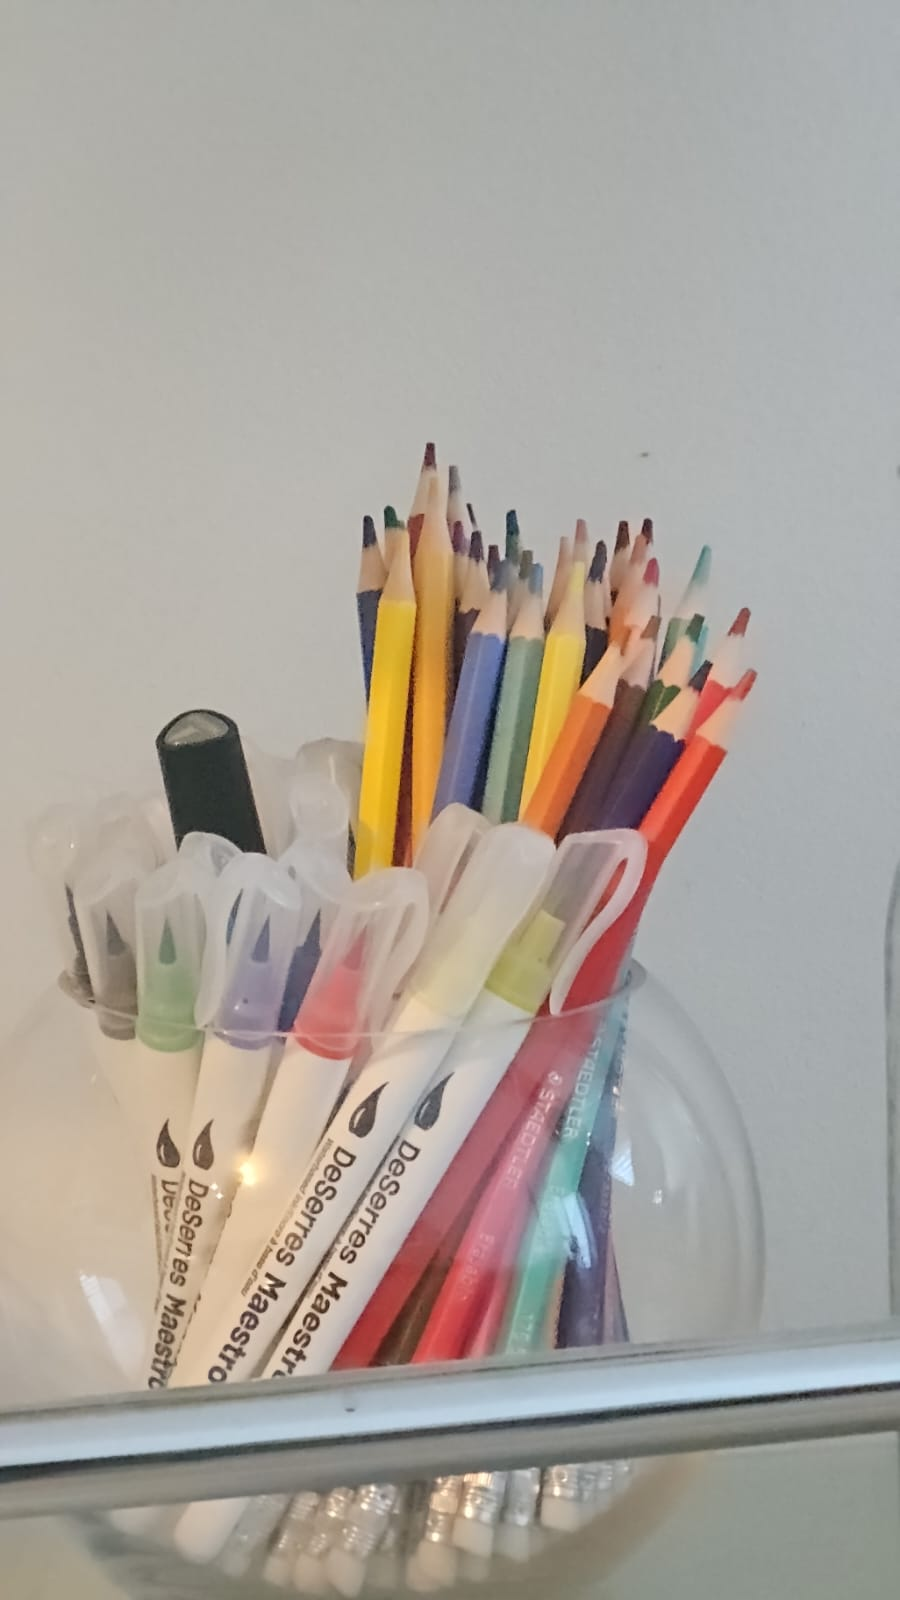
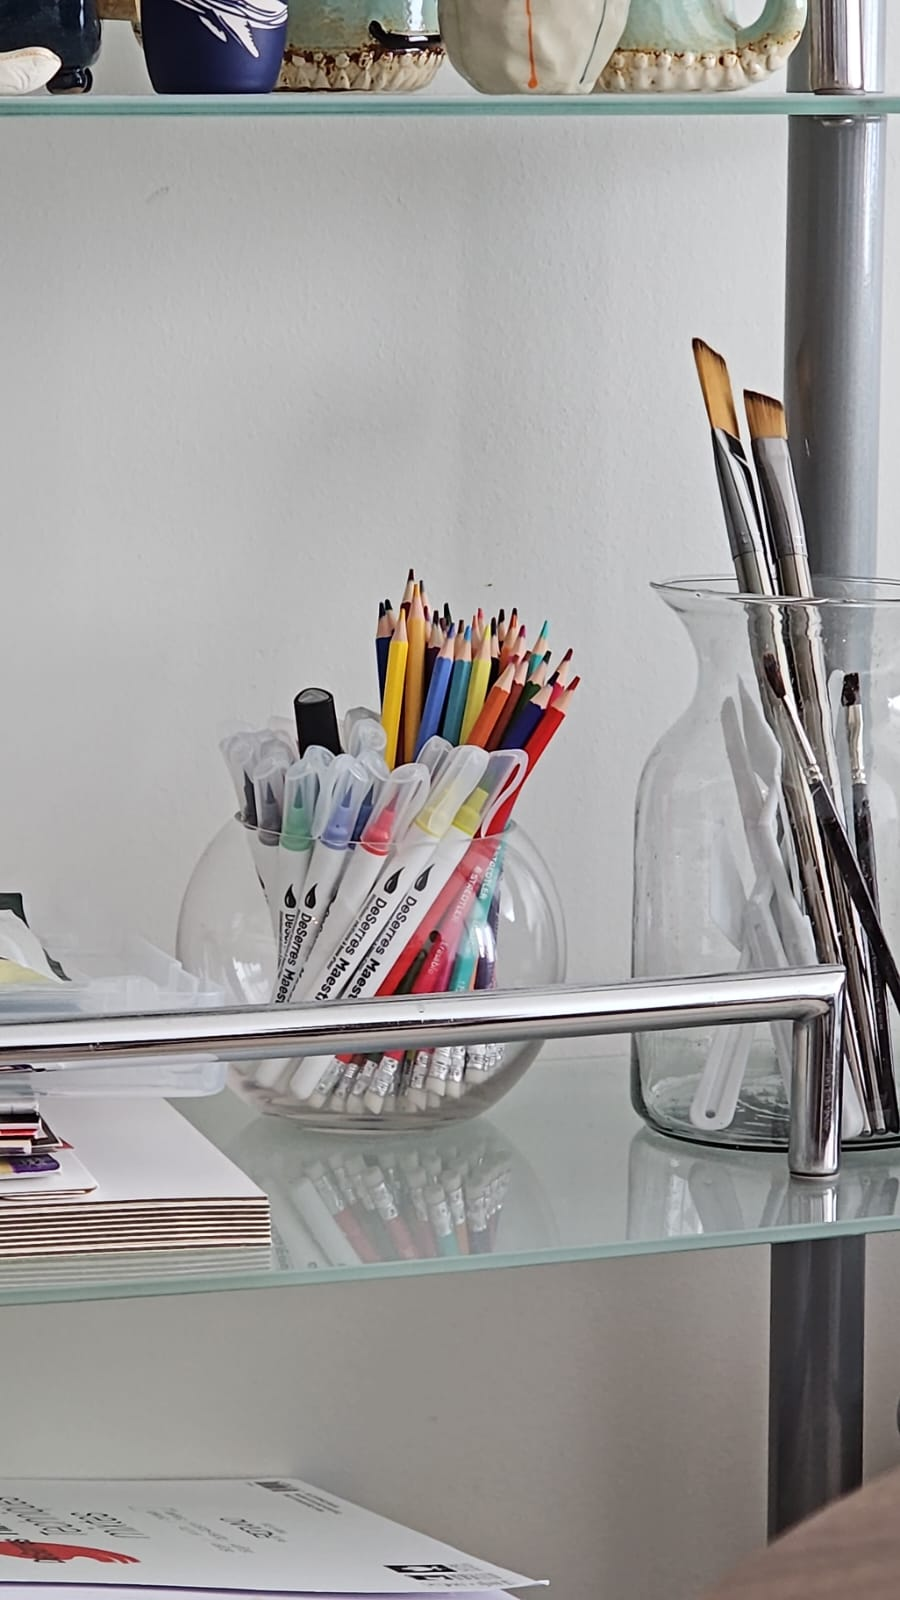
-Change in test image. -Correction in the blendAlphaRange calculation

diff --git a/zoomer.py b/zoomer.py
@@ -45,8 +45,6 @@ class affineTransformerClass:
         # Transform the corners
         transformedImgCornersPolygon = cv.transform(np.array([originalImgCornersPolygon]), self.transformMatrix)[0]
         videoCornersPolygon = np.array([[0, 0], [outputSize[0], 0], [outputSize[0], outputSize[1]], [0, outputSize[1]]], dtype=np.float32)
-        print(f'DEBUG - transformedImgCornersPolygon: \n{transformedImgCornersPolygon}')
-        print(f'DEBUG - videoCornersPolygon: \n{videoCornersPolygon}')
         # Check if videoCornersPolygon is inside transformedImgCornersPolygon
         return polygonIsInsidePolygon(videoCornersPolygon, transformedImgCornersPolygon)
     #---------------------------------------------------------------------
@@ -126,13 +124,13 @@ def interpolatePointsGP(points0:np.ndarray, points1:np.ndarray, alpha:float)->np
     interpolatedLogSize = alpha * logSizeRatio
     linearSizeRatio = np.exp(interpolatedLogSize)
     pgAlpha = (linearSizeRatio - 1) / (sizeRatio - 1) if sizeRatio != 1 else alpha
-    print(f'DEBUG - sizeRatio: {sizeRatio}, alpha: {alpha}, linearSizeRatio: {linearSizeRatio}, pgAlpha: {pgAlpha}')
+    #print(f'DEBUG - sizeRatio: {sizeRatio}, alpha: {alpha}, linearSizeRatio: {linearSizeRatio}, pgAlpha: {pgAlpha}')
     return (1 - pgAlpha) * points0 + pgAlpha * points1
 #-------------------------------------------------------------------------
 def createIntermediateFrame(videoSize:np.ndarray, 
                             img0:np.ndarray, points0:np.ndarray, frame0:np.ndarray,
                                              points1:np.ndarray, frame1:np.ndarray,
-                            sizeAlpha:float)->np.ndarray:
+                            sizeAlpha:float, checkFill:bool=False)->np.ndarray:
     #Convert the points0 to frame0 coordinates
     videoTransformedPoints0 = convertPointsToVideoDimensions(points0, frame0, videoSize)
     #Convert the points1 to frame1 coordinates
@@ -141,20 +139,38 @@ def createIntermediateFrame(videoSize:np.ndarray,
     interpolatedPoints = interpolatePointsGP(videoTransformedPoints0, videoTransformedPoints1, sizeAlpha)
     #Create an affine transformer for the first image
     imgTransformer = affineTransformerClass(points0, interpolatedPoints)
+    if checkFill:
+        return imgTransformer.transformedImageFillsOutputSize(img0, videoSize)
     #Transform the first image to the intermediate frame
-    print(f"DEBUG image will fill output size (sizeAlpha = {sizeAlpha}): {imgTransformer.transformedImageFillsOutputSize(img0, videoSize)}")
     intermediateFrame = imgTransformer.transformImage(img0, videoSize)
     return intermediateFrame
+#-------------------------------------------------------------------------
+def getBlendAlphaRange(videoSize:np.ndarray, 
+                       img0:np.ndarray, points0:np.ndarray, frame0:np.ndarray,
+                       img1:np.ndarray, points1:np.ndarray, frame1:np.ndarray)->tuple:
+    #Scan the sizeAlpha to find the range where both images can fill the output frame
+    minSizeAlphaForBlending = 1.0
+    maxSizeAlphaForBlending = 0.0
+    for testSizeAlpha in np.linspace(0, 1, num=int(1/BLEND_RANGE_DETECTION_RESOLUTION)+1):
+        intermediateFrame0Fills = createIntermediateFrame(videoSize, img0, points0, frame0, points1, frame1, testSizeAlpha, checkFill=True)
+        intermediateFrame1Fills = createIntermediateFrame(videoSize, img1, points1, frame1, points0, frame0, 1-testSizeAlpha, checkFill=True)
+        print(f"DEBUG - testSizeAlpha = {testSizeAlpha}, intermediateFrame0Fills = {intermediateFrame0Fills}, intermediateFrame1Fills = {intermediateFrame1Fills}")
+        if intermediateFrame0Fills and intermediateFrame1Fills:
+            if testSizeAlpha < minSizeAlphaForBlending:
+                minSizeAlphaForBlending = testSizeAlpha
+            if testSizeAlpha > maxSizeAlphaForBlending:
+                maxSizeAlphaForBlending = testSizeAlpha
+    return minSizeAlphaForBlending, maxSizeAlphaForBlending
 #-------------------------------------------------------------------------
 def createBlendedFrame(videoSize:np.ndarray, 
                        img0:np.ndarray, points0:np.ndarray, frame0:np.ndarray,
                        img1:np.ndarray, points1:np.ndarray, frame1:np.ndarray,
-                       sizeAlpha:float)->np.ndarray:
+                       sizeAlpha:float, blendAlpha:float)->np.ndarray:
     #Create the intermediate frames for both images
     intermediateFrame0 = createIntermediateFrame(videoSize, img0, points0, frame0, points1, frame1, sizeAlpha)
     intermediateFrame1 = createIntermediateFrame(videoSize, img1, points1, frame1, points0, frame0, 1-sizeAlpha)
     #Blend the two intermediate frames
-    blendedFrame = cv.addWeighted(intermediateFrame0, 1-sizeAlpha, intermediateFrame1, sizeAlpha, 0)
+    blendedFrame = cv.addWeighted(intermediateFrame0, 1-blendAlpha, intermediateFrame1, blendAlpha, 0)
     return blendedFrame
 #-------------------------------------------------------------------------
 
@@ -171,13 +187,18 @@ if __name__ == "__main__":
     img1 = cv.imread(cfgDict['images_data'][1]['filename'])
     frame1 = np.array(cfgDict['images_data'][1]['frame'], dtype=np.float32)
     prevPoints1 = np.array(cfgDict['images_data'][1]['prev_points'], dtype=np.float32)
-    
+
+    minBlendAlpha, maxBlendAlpha = getBlendAlphaRange(videoDims, img0, nextPoints0, frame0, img1, prevPoints1, frame1)
+    print(f"DEBUG - blendAlphaRange = {minBlendAlpha} to {maxBlendAlpha}")
     for sizeAlpha in np.linspace(0, 1, num=100):
-        blendedFrame = createBlendedFrame(videoDims, img0, nextPoints0, frame0, img1, prevPoints1, frame1, sizeAlpha)
-        blendedFrame = createBlendedFrame(videoDims, img0, nextPoints0, frame0, img1, prevPoints1, frame1, sizeAlpha)
+        blendAlpha = (sizeAlpha - minBlendAlpha) / (maxBlendAlpha - minBlendAlpha) 
+        blendAlpha = np.clip(blendAlpha, 0.0, 1.0)
+        print(f"DEBUG - sizeAlpha = {sizeAlpha}, blendAlpha = {blendAlpha}")
+        blendedFrame = createBlendedFrame(videoDims, img0, nextPoints0, frame0, img1, prevPoints1, frame1, sizeAlpha, blendAlpha)
         cv.imshow(f'Blended Frame', blendedFrame)
         cv.waitKey(1)
 
+    cv.waitKey(0)
     cv.destroyAllWindows()
     quit()
     
